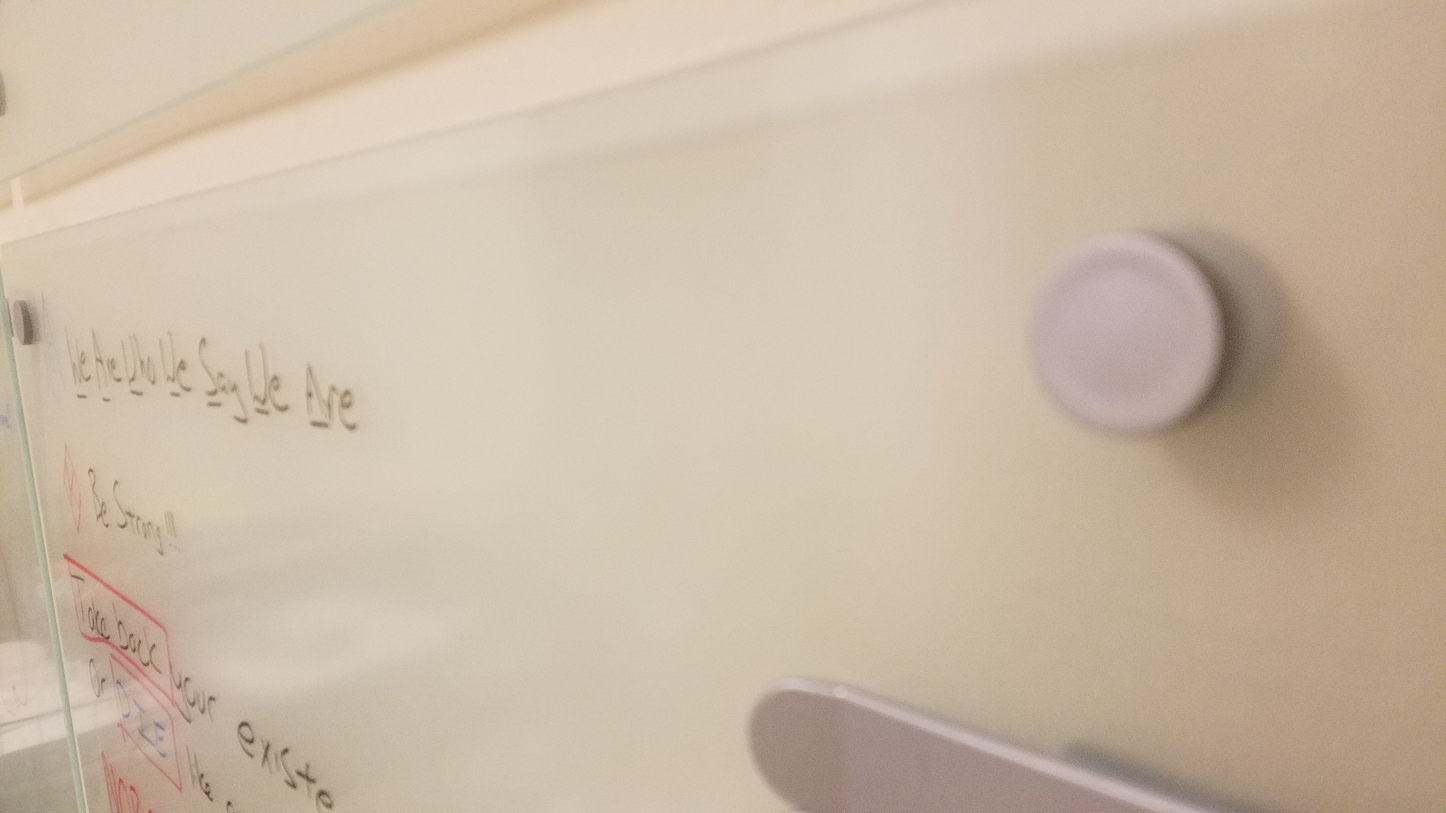
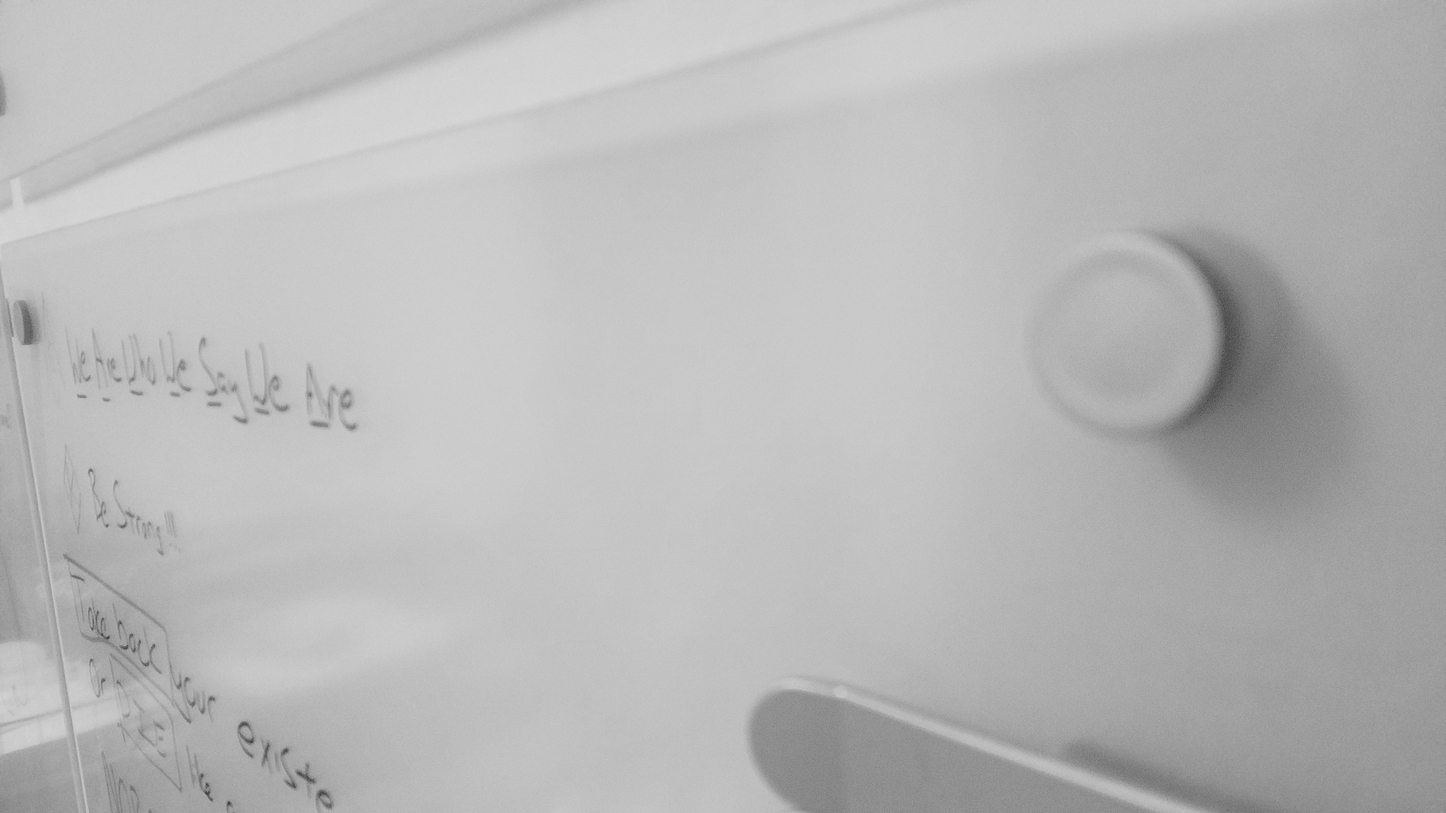
changed main pic to black & white with color tagline on index pag

diff --git a/index.html b/index.html
@@ -6,27 +6,24 @@
   <meta http-equiv="X-UA-Compatible" content="ie=edge">
   <link rel="stylesheet" href="/css/stylesheet.css">
   <link rel="stylesheet" href="/css/mediacontrol.css">
-  <title>LIV | Liv Outside the Box</title>
+  <title>LIV | liv outside the box</title>
 </head>
 <body>
   <!-- Navigation Bar -->
-<div class="navigation noPadding"></div>
-  <div class="mainPic grayscale">
-    <div class="tagline">
-      <img src="/images/liv-outside-the-box.png" alt="Liv Tagline">
+  <div class="navigation noPadding"></div>
+    <div class="mainPic">
+      <div class="tagline">
+        <img src="/images/liv-outside-the-box.png" alt="Liv Tagline">
+      </div>
     </div>
-  </div>
 
 <!-- COmpany Description -->
   <div class=" row mainDescription">
     <div class="columnMainDescrip verticalCenter livDescription descriptSize responsive">
         <img class="defineDesignDeliver centeredImage" src="/images/define-design-deliver.png" alt="">
     </div>
-    <div class="columnMainDescrip mainDescripText livDescription responsive">
-        <p class="livwordsTitle">LIV OUTSIDE THE BOX</p>
-        <p class="livwords">Liv understands as a business or brand you own your industry.
-          We all want to grow, Liv is here to help you think oustide the box to create new opportunities</p>
-        <p class="livwords">Liv believes in a 3 part process to <span class="descripWords">define</span>, <span class="descripWords">design</span>, and <span class="descripWords">deliver</span> you to the world.</p>
+    <div class="columnMainDescrip mainDescripText livDescription descriptSize responsive">
+        <p>Liv believes in a 360 degree approach to business development that includes a 3 part process to <span class="descripWords">define</span>, <span class="descripWords">design</span>, and <span class="descripWords">deliver</span> you to the world.</p>
     </div>
   </div>
 
@@ -112,7 +109,7 @@
     <div class="hello noPadding">hello</div>
   </div>
 
-  <!-- Footer -->
+  <!-- Footergit  -->
   </div>
   <div class="footer noPadding"></div>
 

diff --git a/css/stylesheet.css b/css/stylesheet.css
@@ -60,6 +60,8 @@ body, html {
  background-position: center;
  background-repeat: no-repeat;
  background-size: cover;
+ /* -webkit-filter: grayscale(100%); Safari 6.0 - 9.0 */
+ /* filter: grayscale(100%); */
 }
 .sample {
   color: white;
